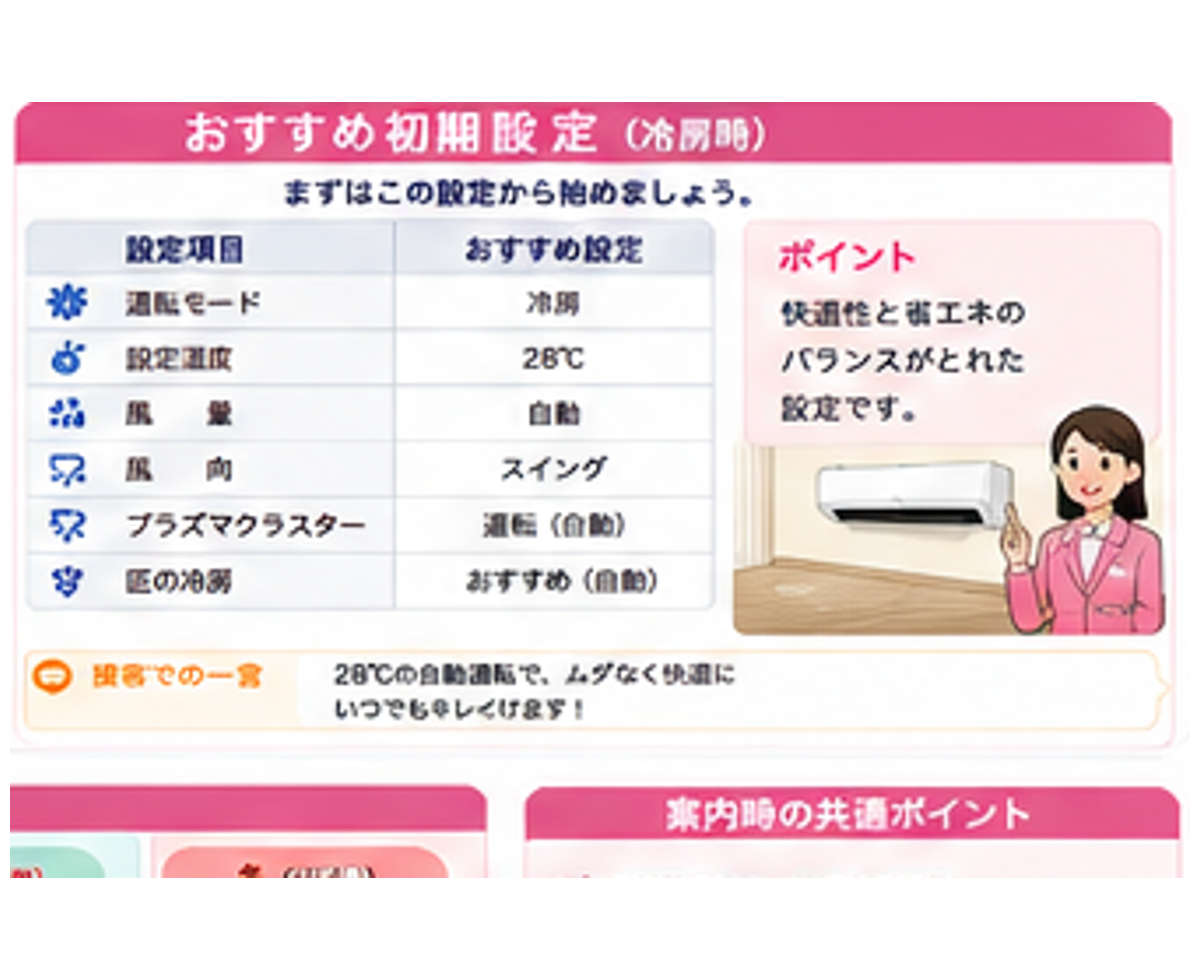
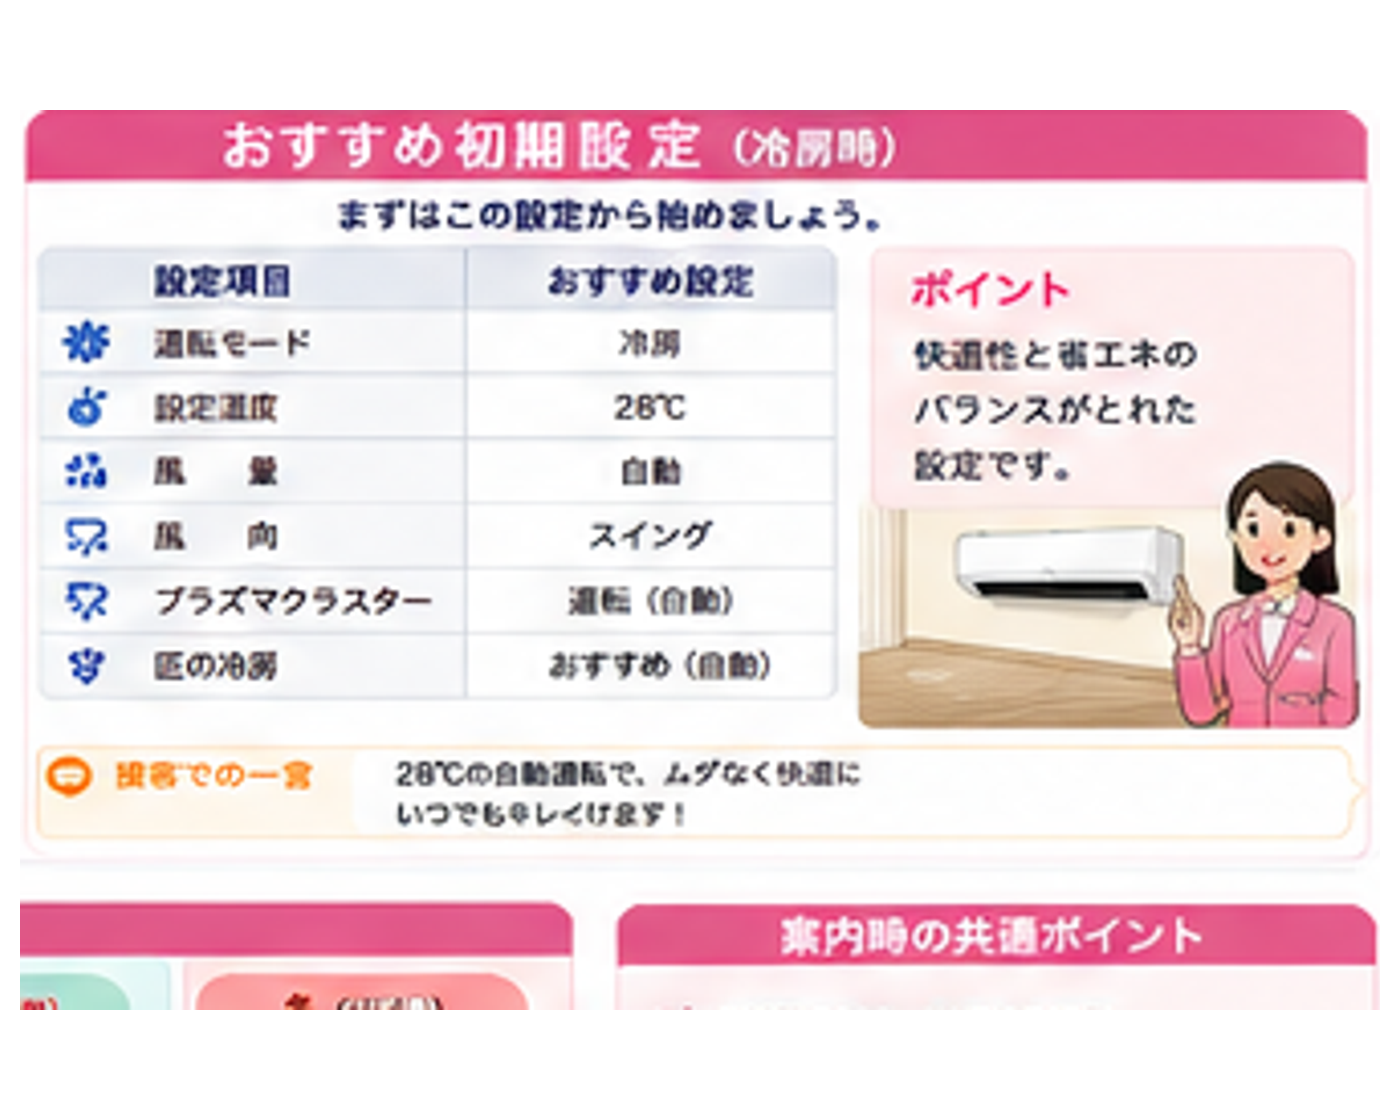
Add files via upload

diff --git a/index.html b/index.html
@@ -4,7 +4,7 @@
 <meta charset="utf-8">
 <meta name="viewport" content="width=device-width,initial-scale=1,viewport-fit=cover">
 <meta name="theme-color" content="#ffffff">
-<title>エアコン販買マスター Pro Ver.6.1.7 東芝大型化・SHARP表示修正版</title>
+<title>エアコン販買マスター Pro Ver.6.1.8 SHARP超大型表示版</title>
 <link rel="apple-touch-icon" sizes="180x180" href="apple-touch-icon.png?v=3890">
 <link rel="icon" type="image/png" sizes="32x32" href="favicon-32.png?v=3890">
 <style>
@@ -1253,6 +1253,26 @@ html,body{max-width:100%;overflow-x:hidden}
   #visualGrid .visual-card p{font-size:16px!important}
 }
 </style>
+
+<style id="v618-sharp-size-fix">
+#visualGrid{gap:22px!important}
+#visualGrid .visual-card{padding:12px!important}
+#visualGrid .visual-card img{
+  width:100%!important;
+  height:auto!important;
+  min-height:420px!important;
+  object-fit:contain!important;
+  object-position:center top!important;
+  background:#fff!important;
+  display:block!important;
+  margin:0 auto 10px!important;
+}
+@media(max-width:700px){
+  #visualGrid .visual-card{padding:10px!important}
+  #visualGrid .visual-card img{min-height:500px!important}
+}
+</style>
+
 </head>
 <body>
 <div class="app">
@@ -1263,7 +1283,7 @@ html,body{max-width:100%;overflow-x:hidden}
     <div class="brand">
       <span class="brand-snow">❄</span>
       <span>エアコン販買マスター</span>
-      <small>Ver.6.1.7 東芝大型化・SHARP表示修正版</small>
+      <small>Ver.6.1.8 SHARP超大型表示版</small>
     </div>
     <button class="icon-button status-button" onclick="openMission()" aria-label="今日の目標">◎</button>
   </header>
@@ -3072,15 +3092,15 @@ const VISUAL_LIBRARY=[
  {category:"toshiba",file:"toshiba-filter-illustrated.png?v=617",title:"フィルター自動お掃除（東芝）",desc:"自動掃除から楽ダストボックスまでを図解。"},
  {category:"toshiba",file:"toshiba-iolife-illustrated.png?v=617",title:"IoLIFE",desc:"Wi-Fi接続・機器登録・スマホ操作の流れを図解。"},
  {category:"toshiba",file:"toshiba-series-illustrated.png?v=617",title:"東芝5シリーズ比較",desc:"V-DR・V-DZ・V-DX・V-X・V-Mの位置づけを図解。"},
- {category:"sharp",file:"sharp-dryfan-illustrated.png?v=617",title:"防カビカラッとファン",desc:"Rシリーズのファン清潔機能を図解。"},
- {category:"sharp",file:"sharp-hyoketsu-illustrated.png?v=617",title:"氷結ドライ",desc:"熱交換器を氷点下まで下げる除湿の流れを図解。"},
- {category:"sharp",file:"sharp-takumi-illustrated.png?v=617",title:"匠の冷房",desc:"温度・湿度・気流を見ながら快適性を高める考え方を図解。"},
- {category:"sharp",file:"sharp-filter-illustrated.png?v=617",title:"フィルター自動お掃除（SHARP）",desc:"Vシリーズの自動お掃除と定期確認を図解。"},
- {category:"sharp",file:"sharp-coanda-illustrated.png?v=617",title:"コアンダ気流",desc:"直接風を抑えながら届ける気流を図解。"},
- {category:"sharp",file:"sharp-plasma-illustrated.png?v=617",title:"プラズマクラスター",desc:"R・V・Eの25000とDGの7000を比較。"},
- {category:"sharp",file:"sharp-series-illustrated.png?v=617",title:"SHARP 4シリーズ比較",desc:"R・V・E・DGの位置づけを図解。"},
+ {category:"sharp",file:"sharp-dryfan-illustrated.png?v=618",title:"防カビカラッとファン",desc:"Rシリーズのファン清潔機能を図解。"},
+ {category:"sharp",file:"sharp-hyoketsu-illustrated.png?v=618",title:"氷結ドライ",desc:"熱交換器を氷点下まで下げる除湿の流れを図解。"},
+ {category:"sharp",file:"sharp-takumi-illustrated.png?v=618",title:"匠の冷房",desc:"温度・湿度・気流を見ながら快適性を高める考え方を図解。"},
+ {category:"sharp",file:"sharp-filter-illustrated.png?v=618",title:"フィルター自動お掃除（SHARP）",desc:"Vシリーズの自動お掃除と定期確認を図解。"},
+ {category:"sharp",file:"sharp-coanda-illustrated.png?v=618",title:"コアンダ気流",desc:"直接風を抑えながら届ける気流を図解。"},
+ {category:"sharp",file:"sharp-plasma-illustrated.png?v=618",title:"プラズマクラスター",desc:"R・V・Eの25000とDGの7000を比較。"},
+ {category:"sharp",file:"sharp-series-illustrated.png?v=618",title:"SHARP 4シリーズ比較",desc:"R・V・E・DGの位置づけを図解。"},
  {category:"toshiba",file:"toshiba-settings-illustrated.png?v=617",title:"東芝 初期設定",desc:"手動選択・自動・IoLIFE接続設定を整理。"},
- {category:"sharp",file:"sharp-settings-illustrated.png?v=617",title:"SHARP 初期設定",desc:"設定が必要な機能・自動機能・アプリ接続を整理。"},
+ {category:"sharp",file:"sharp-settings-illustrated.png?v=618",title:"SHARP 初期設定",desc:"設定が必要な機能・自動機能・アプリ接続を整理。"},
  {category:"construction",file:"construction-voltage.png",title:"100V・200V",desc:"コンセント・電圧・分電盤をセットで確認。"},
  {category:"construction",file:"construction-dedicated.png",title:"専用回路",desc:"分電盤からエアコンまで他機器と共用しない回路。"},
  {category:"construction",file:"construction-board.png",title:"分電盤",desc:"主幹・分岐・単相2線/3線・空き回路・専用回路を総合確認。"},
